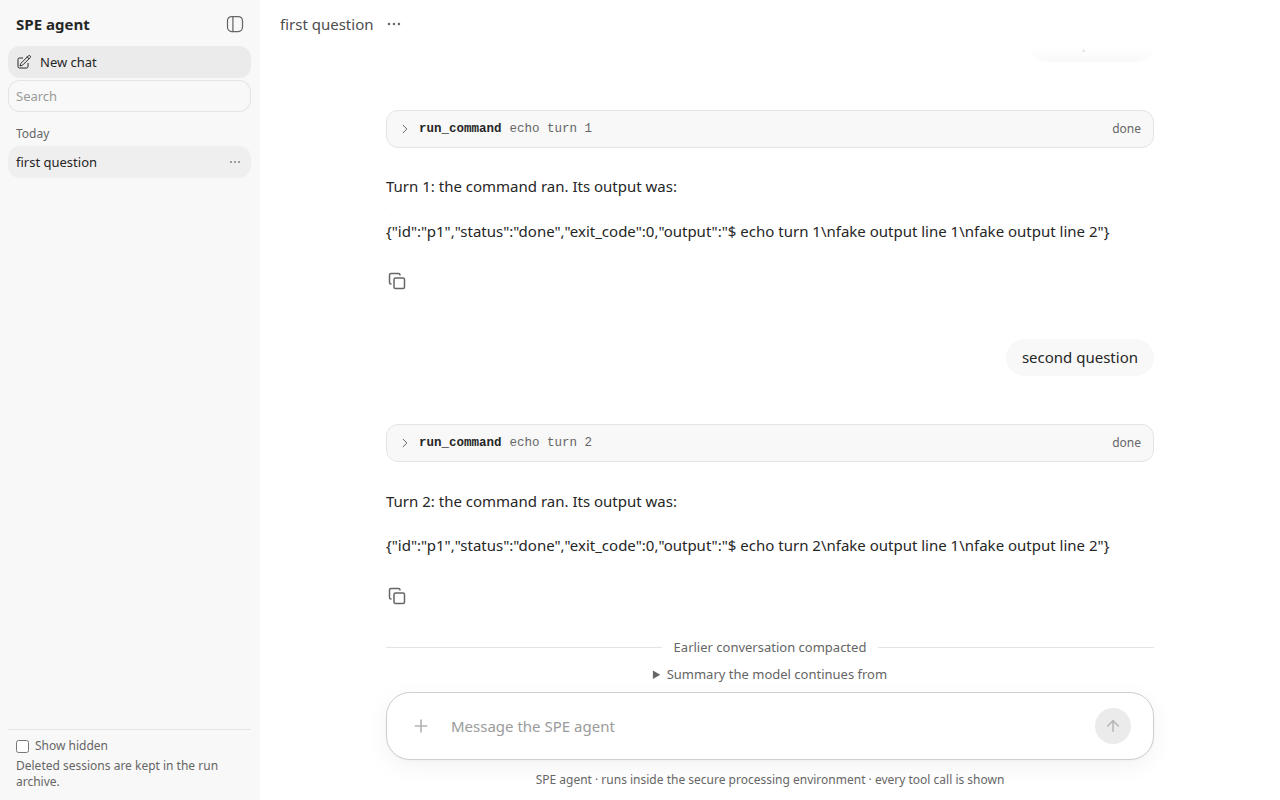
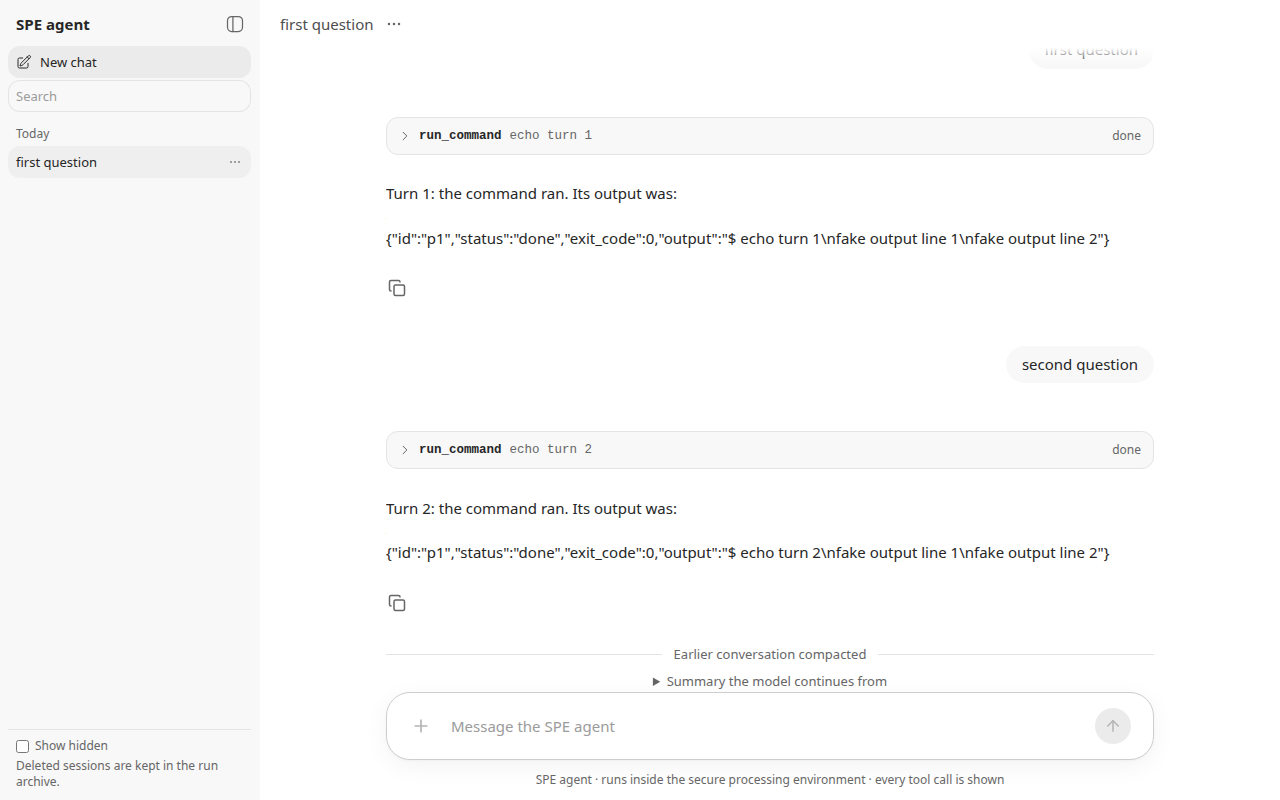
e2e: scroll the divider into view before the reload shot; backlog the gap
Controller ruling on task 3's concern: check_compact_command now scrolls
.spe-compaction into view before r.shot("compact-command-reload"), so the
evidence screenshot actually shows the divider instead of an earlier turn
(a reload does not scroll a restored session to its newest content, unlike
a live send). Evidence regenerated (run_start.json's ids differ, same
shape). Backlogged the underlying gap under Unscheduled.

diff --git a/platform/dev/e2e/sessions.py b/platform/dev/e2e/sessions.py
@@ -988,6 +988,9 @@ def check_compact_command(r: Run) -> None:
     page.reload()
     expect(page.locator(".spe-compaction")).to_have_count(1, timeout=10_000)
     expect(page.get_by_text("/compact keep the canary paths", exact=True)).to_have_count(0)
+    # A reload does not scroll a restored session to its newest content (BACKLOG.md), unlike a live send:
+    # bring the divider into view so the shot shows it, not an earlier turn.
+    page.locator(".spe-compaction").scroll_into_view_if_needed()
     r.shot("compact-command-reload")
     # Turn numbering restarts after a compaction (see check_compaction), so this answer is "Turn 1" again, as the
     # first question's still on the page is: r.send would hit a strict-mode double match. Count the answers.

diff --git a/BACKLOG.md b/BACKLOG.md
@@ -58,6 +58,7 @@ start reads this section; keep it short.
 - Chat sessions with owners in the AG-UI chat: the sessions of the living AG-UI spec (`docs/specs/2026-10-15-agui-frontend-design/`, §6) belong to the instance, not a participant, and the session API has no authentication of its own (the SSH tunnel or Coder's owner-only proxy is the gate); several participants per instance would need identity in the chat UI and an owner per session. From its *Out of scope* (first the chat sessions spec's, review M5 on PR #7). Waits, like the per-user budgets above, for multi-participant instances.
 - A run report in the CopilotKit chat, like Open WebUI's pinned "Run report" note (`reports/run_report.md.j2`): the AG-UI frontend has none, and its archive's `index.md` says so. From `AGENTS.md`, *AG-UI agent frontend* ("Not done yet") and the chat sessions spec's *Out of scope* (review M5 on PR #7). Waits because no one has asked for it on the AG-UI path yet. The chat sessions (plan `docs/superpowers/plans/2026-10-29-agui-chat-sessions/`, done) now record every run per session, on the `chat-sessions` volume and in the archive, so a report can be built from them.
 - AG-UI compaction upstream: participants get compaction only through an upstream PR (`docs/guides/contributing-upstream.md`); that port also rewrites upstream's `docs/specs/2026-10-15-agui-frontend-design/05-agent-service.md`, *History*, stale on our `main` since slice 1/3 of the compaction plan — from the compaction plan (PR #16 review, finding 10), can start: the track ended with slice 3/3 (2026-11-03).
+- AG-UI chat: reopening or reloading a session does not scroll to its newest content, unlike a live send — seen with the `/compact` divider, in the DOM right after a reload but below the fold until the page is scrolled — from the `/compact` plan, slice 2/2, task 3 (PR #30, e2e evidence `docs/superpowers/plans/2026-11-03-agui-compact-command/evidence/slice-2/`); waits because it is a general restore-scroll gap, not `/compact`-specific, and no one has asked for it yet.
 - AG-UI compaction: drop or shorten old tool results before summarising (Anthropic's context editing), as a cheaper first stage — from the compaction spec (#15), *Out of scope*, waits because nothing shows summary requests are costly yet (the run log's `compactions` will).
 - AG-UI compaction on qwen: one summary request returned the answer instead of a summary ("The last line `seq 1 3000` printed is: **3000**"), and after each compaction qwen re-read the tool output the summary had dropped, so a 20000 window compacted three times in one run and hit the cap; review `compaction_prompt.md` against qwen (e.g. promptfoo over archived transcripts) — from slice 3/3, task 3 (`docs/superpowers/plans/2026-11-03-agui-compaction/evidence/slice-3/denbi/README.md`), waits because at a realistic window the session passed.
 - AG-UI compaction estimate: `CHARS_PER_TOKEN` = 3 under-counts digit-heavy output on qwen, whose tokenizer splits numbers into single digits (237599 estimated against 316927 counted by de.NBI's gateway for `seq 1 87382`), so the proactive trigger fires later than 80 % of the window there; the reactive path recovered the session — from slice 3/3, task 4 (`docs/superpowers/plans/2026-11-03-agui-compaction/evidence/slice-3/decision-13/README.md`), waits because no session failed from it.
